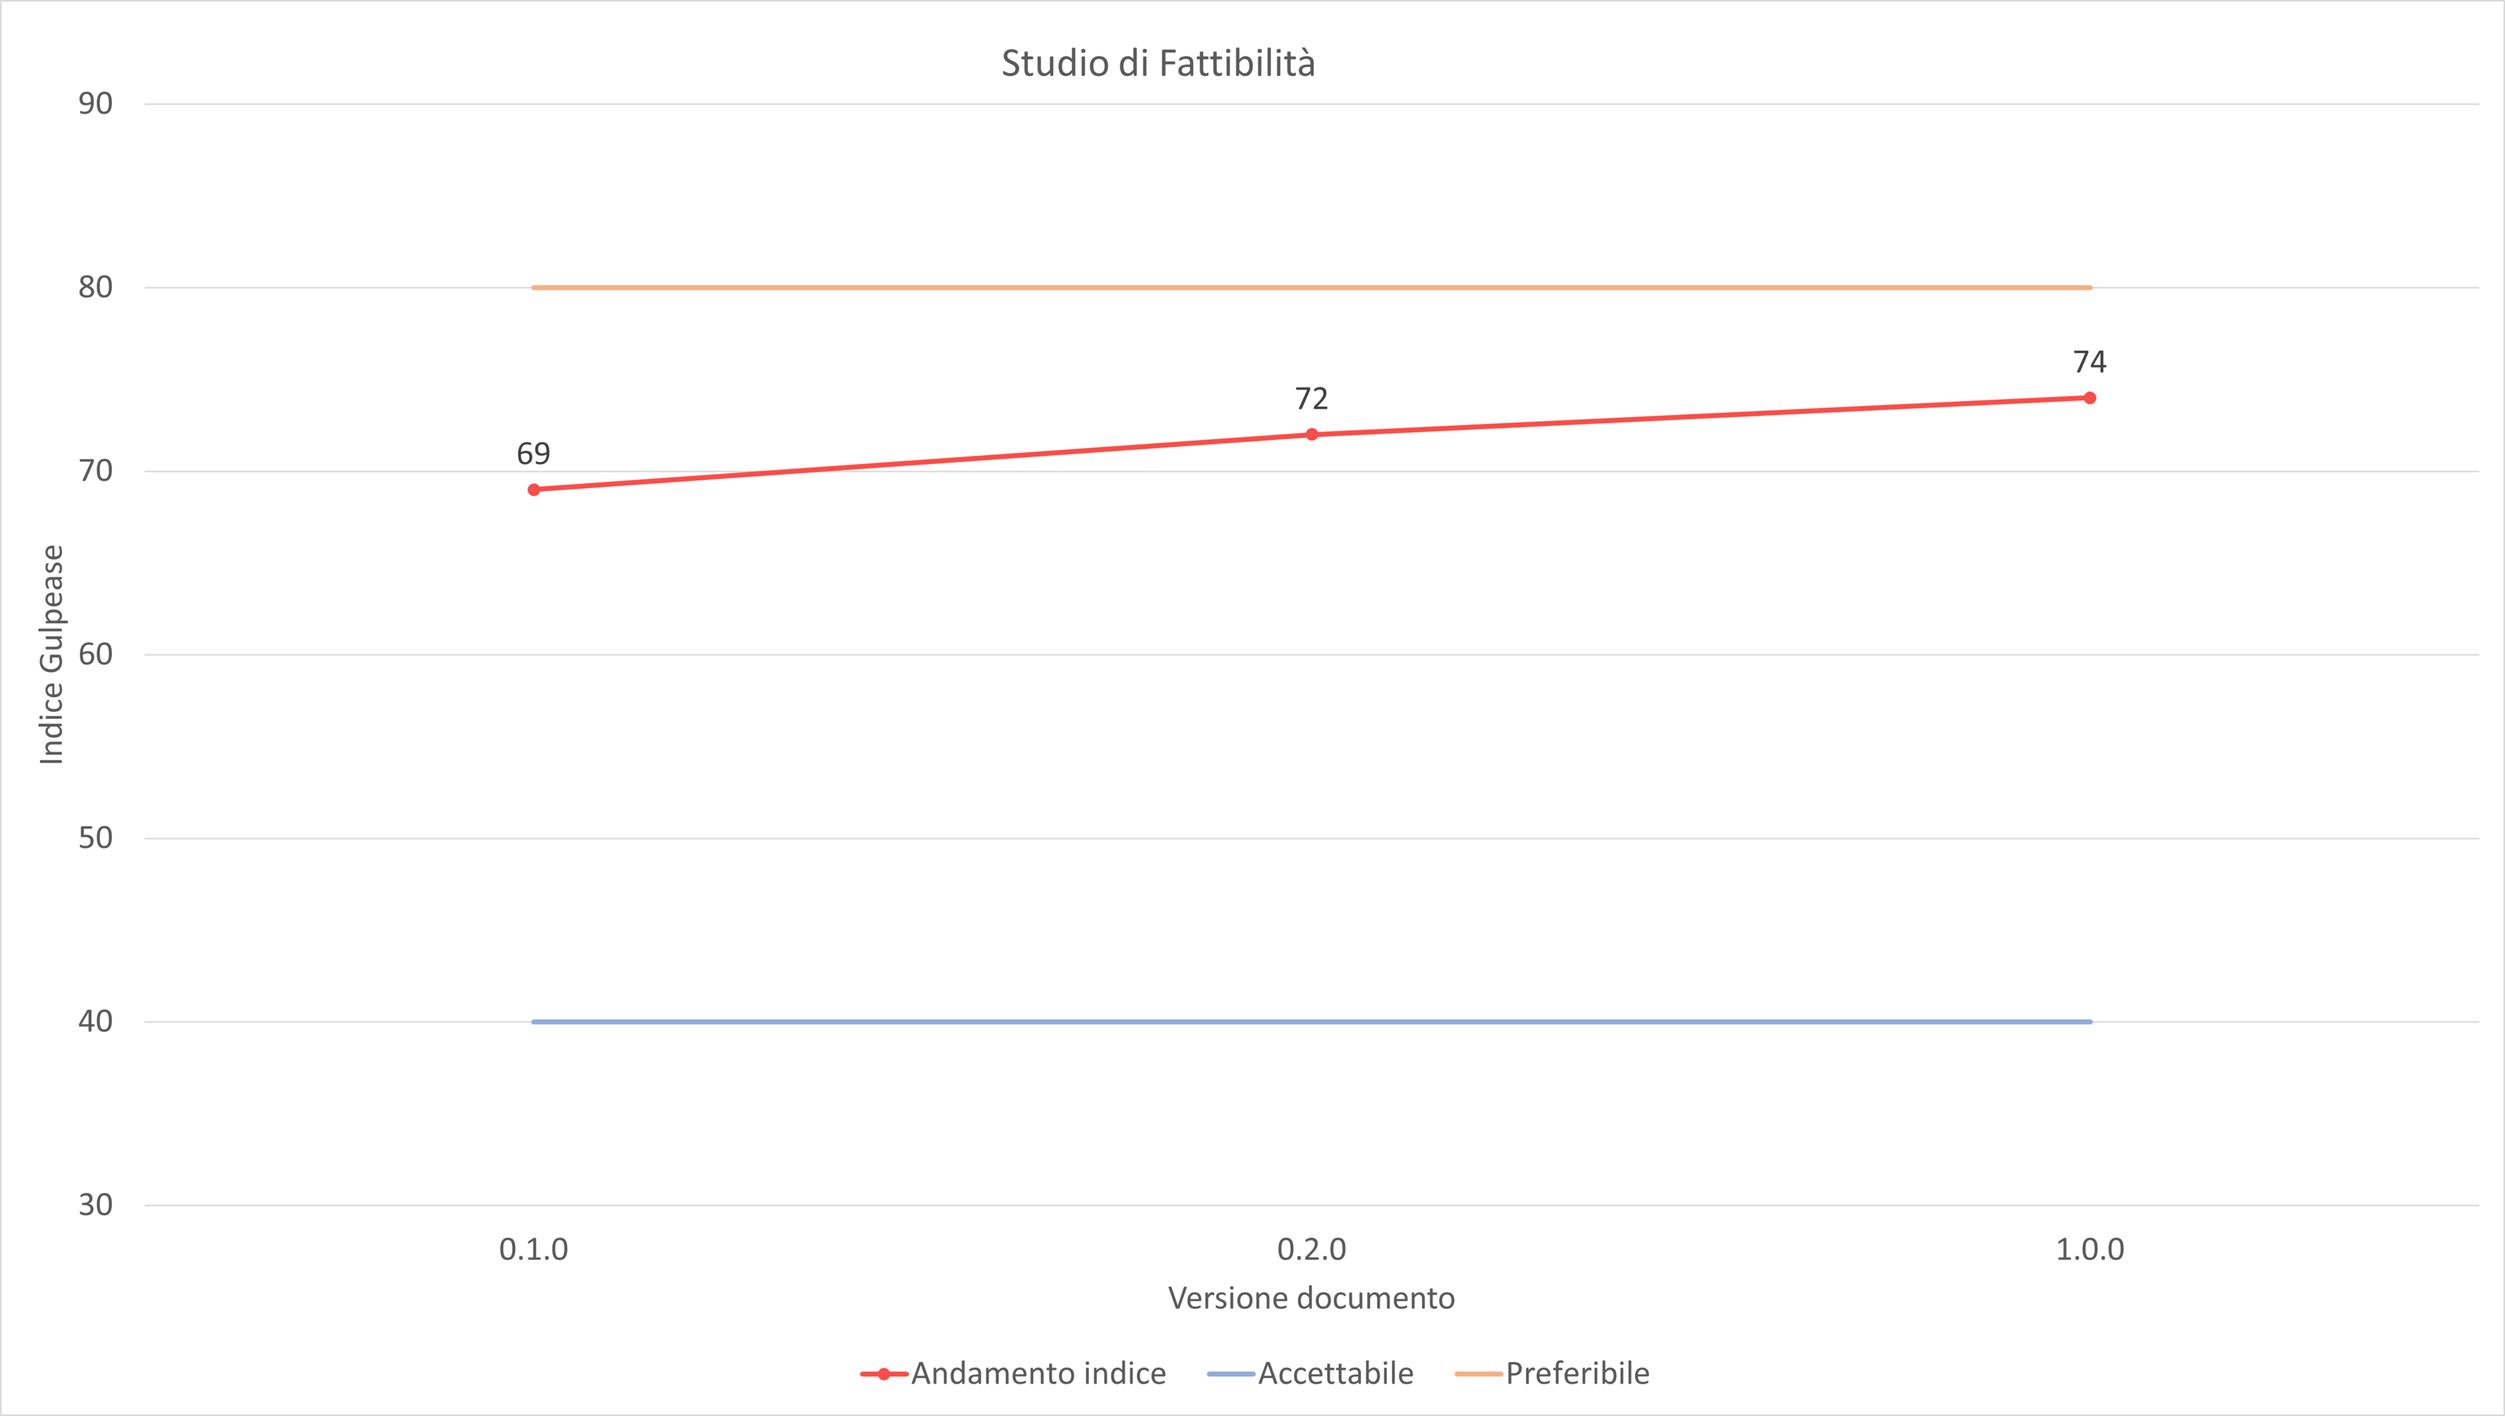
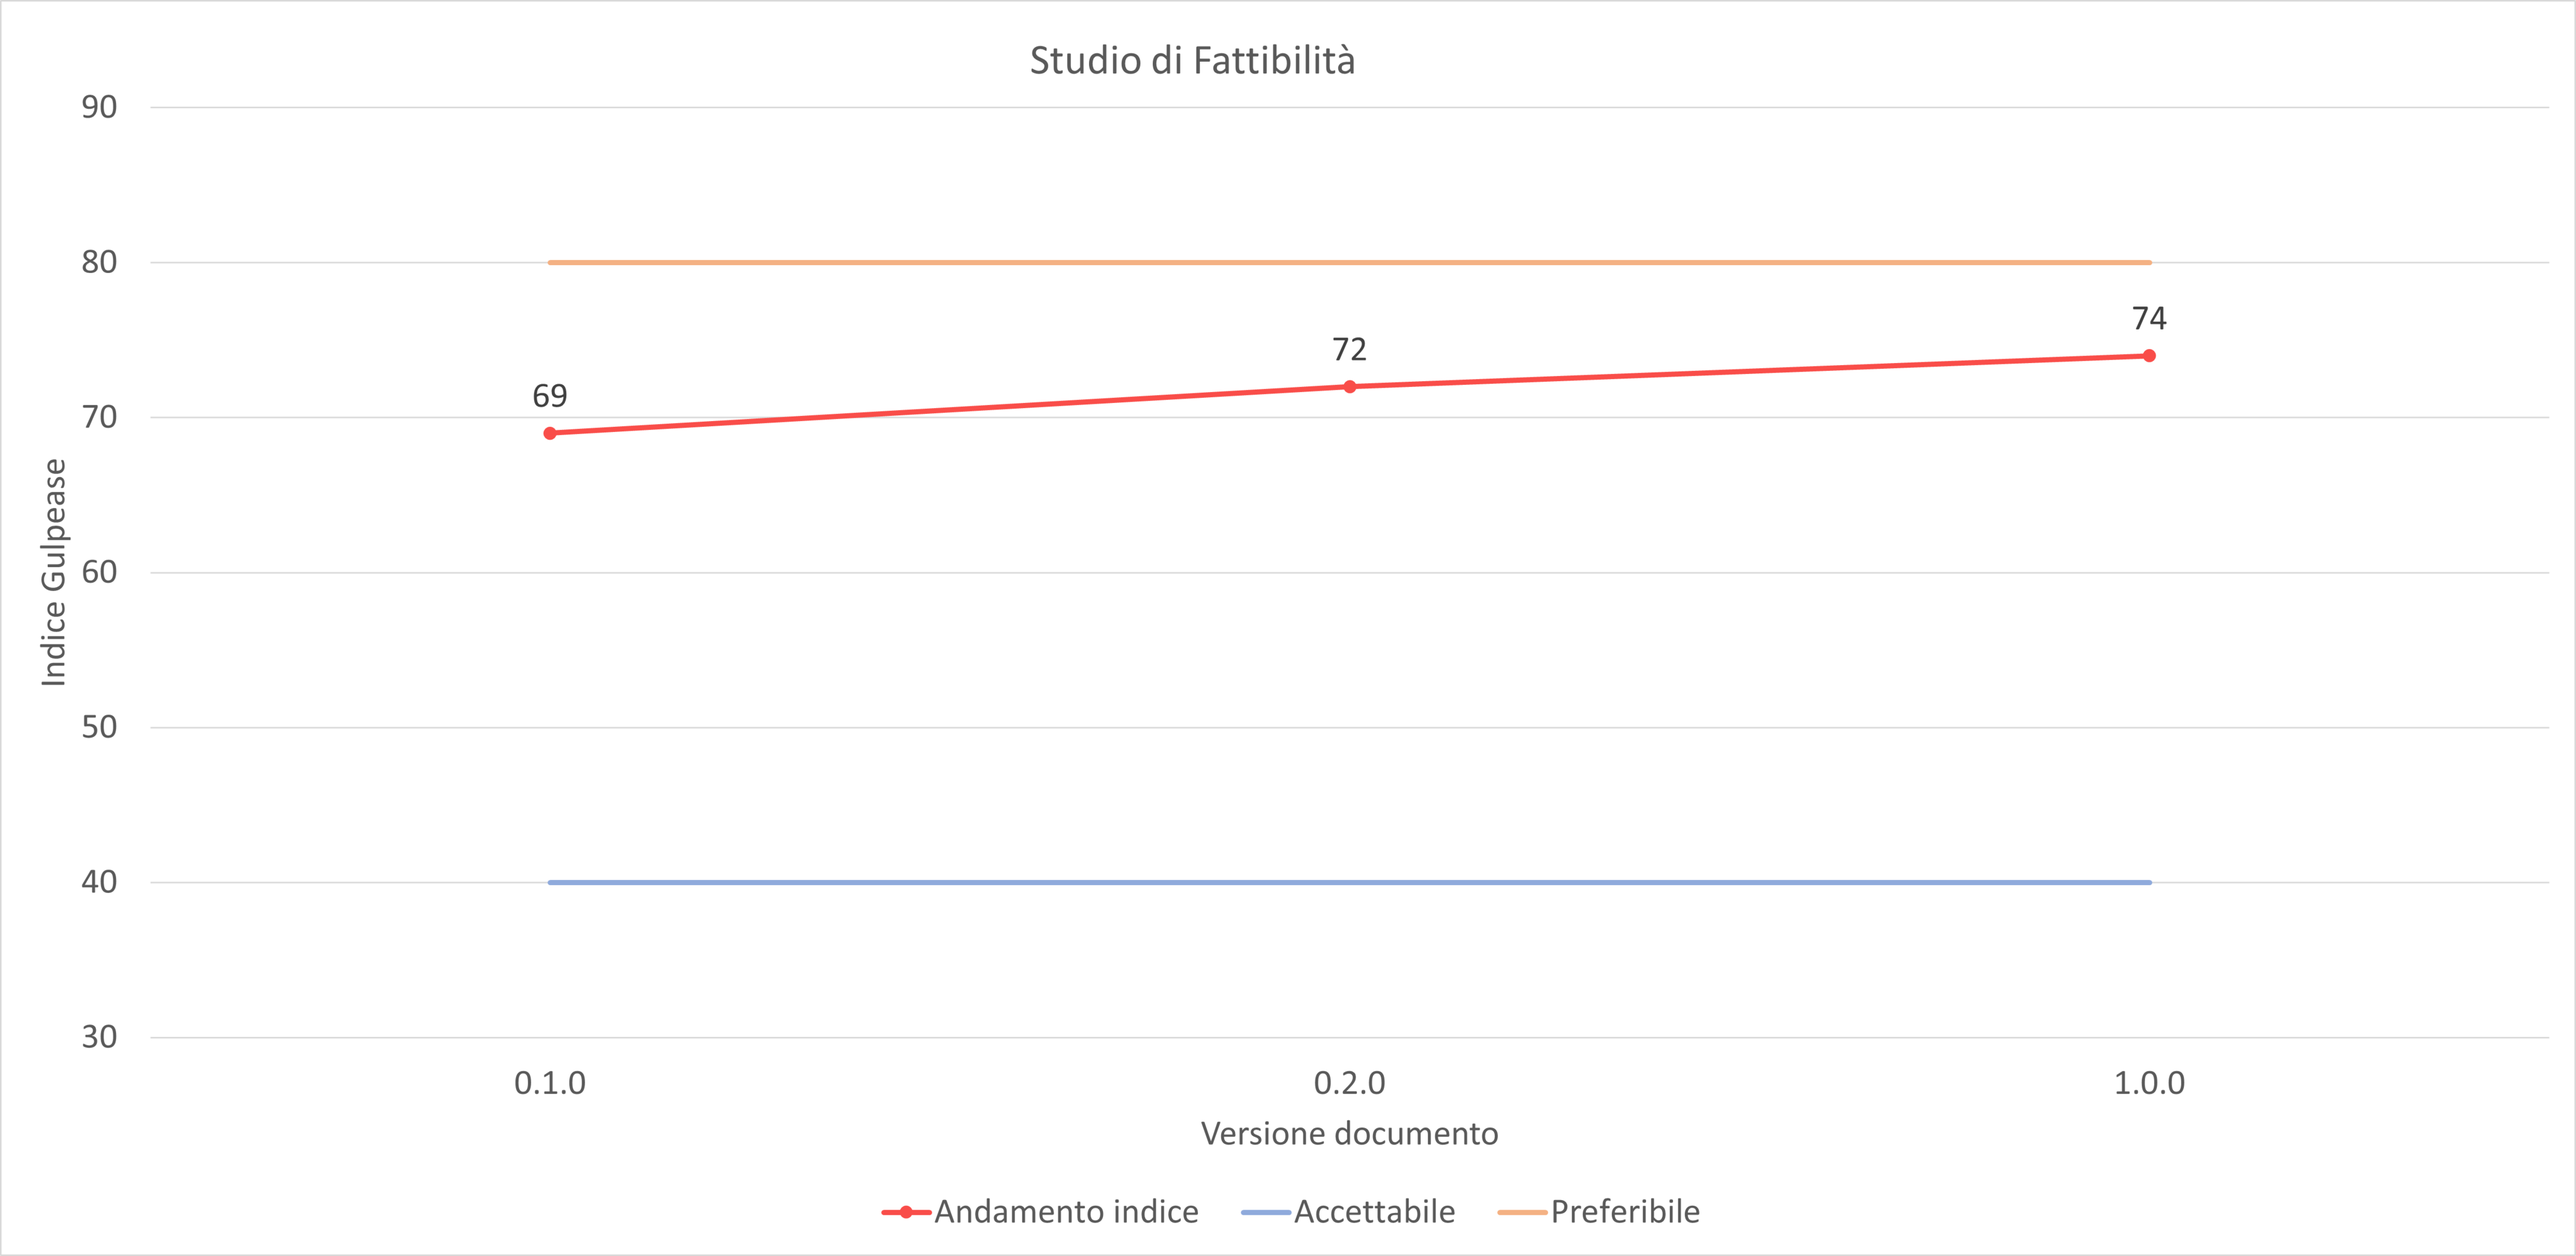
finito pdq ra

diff --git a/RA/Documenti Esterni/Piano di Qualifica/sezioni/resocontoAttivitàVerifica.tex b/RA/Documenti Esterni/Piano di Qualifica/sezioni/resocontoAttivitàVerifica.tex
@@ -126,14 +126,12 @@ I dati riportati nel seguito fanno riferimento a:
 % \end{center}
 \begin{figure}[!ht]
     \caption{Indice di Gulpease: \textit{Andamento complessivo}}
-    \vspace{10px}
     \includegraphics[scale=0.5]{sezioni/immagini/GulpeaseGenerale.png}
     \centering
 \end{figure}
 \subsubsubsection{Andamento per documento}
 \begin{figure}[!ht]
     \caption{Indice di Gulpease: \textit{Norme di Progetto}}
-    \vspace{10px}
     \includegraphics[scale=0.5]{sezioni/immagini/NormeGulpease.png}
     \centering
 \end{figure}
@@ -187,14 +185,12 @@ I dati riportati nel seguito fanno riferimento a:
 \subsubsection{MPR04 - Correttezza ortografica}
 \begin{figure}[!ht]
     \caption{Correttezza ortografica}
-    \vspace{10px}
     \includegraphics[scale=0.5]{sezioni/immagini/CorrettezzaOrtografica.png}
     \centering
 \end{figure}
 \subsubsection{MPR05 - PMS (Percentuale di metriche soddisfatte)}
 \begin{figure}[!ht]
     \caption{Percentuale di metriche soddisfatte}
-    \vspace{10px}
     \includegraphics[scale=0.5]{sezioni/immagini/MetricheSoddisfatte.png}
     \centering
 \end{figure}
